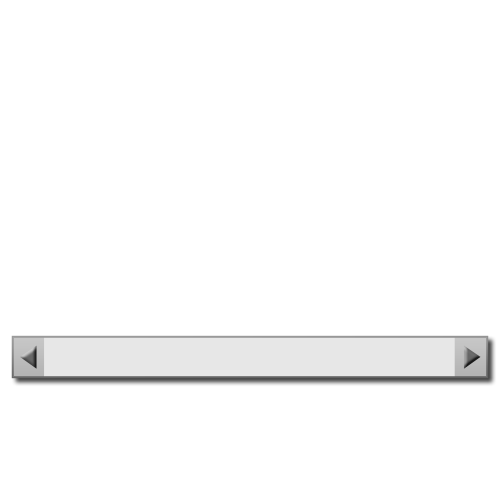
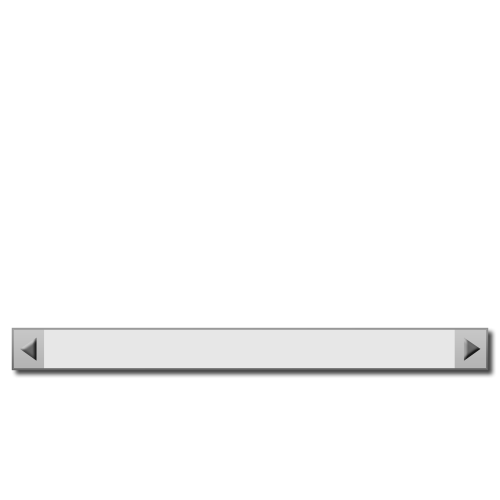
image updates, many minor adjustements

Changed region(s): [[0.0, 0.63, 0.99, 0.78]]

diff --git a/GazeParser.cs b/GazeParser.cs
@@ -25,10 +25,10 @@ namespace SmoothPursuit
 
         public static int SAMPLE_INTERVAL { get { return 30; } }
 
-        private const bool ENSURE_SMOOTH_PURSUIT = false;
+        private const bool ENSURE_SMOOTH_PURSUIT = true;
         private const float ALPHA = 1f;
         private const double MIN_FIX_DIST = 70;     // pixels
-        private const int MAX_OFFSET = 0;         // pixels
+        private const int MAX_OFFSET = 400;         // pixels
         
         private readonly int OFFSET_X = 0;          // pixels
         private readonly int OFFSET_Y = 0;          // pixels
@@ -47,6 +47,7 @@ namespace SmoothPursuit
         #region Properties
 
         public IPursueDetector PursueDetector { get; set; }
+        public bool OffsetEnabled { get; set; }
 
         #endregion
 
@@ -55,11 +56,10 @@ namespace SmoothPursuit
         public GazeParser()
         {
             Random rand = new Random();
-            if (MAX_OFFSET > 0)
-            {
-                OFFSET_X = rand.Next(2 * MAX_OFFSET) - MAX_OFFSET;
-                OFFSET_Y = rand.Next(2 * MAX_OFFSET) - MAX_OFFSET;
-            }
+            OFFSET_X = rand.Next(2 * MAX_OFFSET) - MAX_OFFSET;
+            OFFSET_Y = rand.Next(2 * MAX_OFFSET) - MAX_OFFSET;
+
+            OffsetEnabled = true;
 
             iPointsTimer.Interval = SAMPLE_INTERVAL;
             iPointsTimer.Tick += PointsTimer_Tick;
@@ -85,7 +85,9 @@ namespace SmoothPursuit
 
         public void feed(int aTimestamp, Point aPoint)
         {
-            Point gazePoint = new Point(aPoint.X + OFFSET_X, aPoint.Y + OFFSET_Y);
+            Point gazePoint = new Point(
+                aPoint.X + (OffsetEnabled ? OFFSET_X : 0),
+                aPoint.Y + (OffsetEnabled ? OFFSET_Y : 0));
             lock (iPointBuffer)
             {
                 iPointBuffer.Enqueue(new GazePoint(aTimestamp, gazePoint));

diff --git a/Static/DwellDetector.cs b/Static/DwellDetector.cs
@@ -1,8 +1,4 @@
-using System;
-using System.Collections.Generic;
-using System.Linq;
-using System.Text;
-using System.Drawing;
+using System.Drawing;
 
 namespace SmoothPursuit.Static
 {
@@ -66,13 +62,6 @@ namespace SmoothPursuit.Static
                 else
                     State = IPursueDetector.State.Unknown;
             }
-
-            public override string ToString()
-            {
-                return new StringBuilder(base.ToString()).
-                    AppendFormat("\t{0,8:N3}", 11.1).
-                    ToString();
-            }
         }
 
         #endregion
@@ -97,6 +86,8 @@ namespace SmoothPursuit.Static
 
         #endregion
 
+        #region Internal methods
+
         protected override IPursueDetector.DataPoint CreateDataPoint(int aTimestamp, Point aPoint)
         {
             return new GazePoint(aTimestamp, aPoint);
@@ -110,5 +101,7 @@ namespace SmoothPursuit.Static
             iTrack.updateState(iIncreaseArea.Activated, iDecreaseArea.Activated);
             return iTrack;
         }
+
+        #endregion
     }
 }

diff --git a/Properties/AssemblyInfo.cs b/Properties/AssemblyInfo.cs
@@ -5,11 +5,11 @@ using System.Runtime.InteropServices;
 // General Information about an assembly is controlled through the following 
 // set of attributes. Change these attribute values to modify the information
 // associated with an assembly.
-[assembly: AssemblyTitle("SmoothVolume")]
+[assembly: AssemblyTitle("SmoothPursuitControl")]
 [assembly: AssemblyDescription("")]
 [assembly: AssemblyConfiguration("")]
 [assembly: AssemblyCompany("University of Tampere")]
-[assembly: AssemblyProduct("SmoothVolume")]
+[assembly: AssemblyProduct("SmoothPursuitControl")]
 [assembly: AssemblyCopyright("Copyright © University of Tampere 2015")]
 [assembly: AssemblyTrademark("")]
 [assembly: AssemblyCulture("")]

diff --git a/Rotation/Knob.cs b/Rotation/Knob.cs
@@ -7,7 +7,7 @@ namespace SmoothPursuit.Rotation
     {
         #region Consts
 
-        private const int INDICATOR_OFFSET = 150;       // pixels
+        private const int INDICATOR_OFFSET = 200;       // pixels from the center
         private const float MIN_ANGLE = -135;           // degrees
         private const float MAX_ANGLE = 135;            // degrees
         private const double TARGET_SPEED = 1.4;        // degrees per step

diff --git a/Scrolling/Cue.cs b/Scrolling/Cue.cs
@@ -52,7 +52,7 @@ namespace SmoothPursuit.Scrolling
             iLattitude = aX;
             Location = new Point(
                 (int)Math.Round((double)(iLattitude - iBitmapCenter.X)),
-                (int)Math.Round(iInitialPosition.Y - iBitmapCenter.Y - 8)); // 8 - a hack to show the cue higher
+                (int)Math.Round(iInitialPosition.Y - iBitmapCenter.Y));
         }
 
         private void SlideBy(double aDistance)

diff --git a/MainForm.cs b/MainForm.cs
@@ -108,6 +108,7 @@ namespace SmoothPursuit
 
             iGazeControl = iGazeControls[iGazeControlIndex];
             iParser.PursueDetector = iGazeControl.PursueDetector;
+            iParser.OffsetEnabled = iGazeControl != iStaticControl;
             
             pcbControl.Image = iGazeControl.Image;
             pcbControl.Visible = !CONTROL_INVISIBLE_WHEN_NOT_TRACKING;

diff --git a/Rotation/Cue.cs b/Rotation/Cue.cs
@@ -7,7 +7,7 @@ namespace SmoothPursuit.Rotation
     {
         #region Consts
 
-        private const double RADIUS = 0.35;         // fraction of the min(width, height)
+        private const double RADIUS = 0.265;        // fraction of the min(width, height)
         private const double INITIAL_ANGLE = 90;    // degrees
 
         #endregion

diff --git a/Scrolling/Bar.cs b/Scrolling/Bar.cs
@@ -10,7 +10,7 @@ namespace SmoothPursuit.Scrolling
         private const int TARGET_SPEED = 3;     // pixels per step
 
         private const int SLIDER_X = 44;
-        private const int SLIDER_Y = 337;
+        private const int SLIDER_Y = 330;
         private const int SLIDER_WIDTH = 411;
         private const int SLIDER_HEIGHT = 40;
 

diff --git a/IGazeControl.cs b/IGazeControl.cs
@@ -105,7 +105,7 @@ namespace SmoothPursuit
 
         public void reset()
         {
-            Value = (int)(MAX_VALUE / 2);
+            Value = (int)(MAX_VALUE / 2 + 0.5);
         }
 
         #endregion

diff --git a/Static/Control.cs b/Static/Control.cs
@@ -1,8 +1,4 @@
-using System;
-using System.Collections.Generic;
-using System.Linq;
-using System.Text;
-using System.Drawing;
+using System.Drawing;
 
 namespace SmoothPursuit.Static
 {

diff --git a/Static/Cue.cs b/Static/Cue.cs
@@ -1,8 +1,4 @@
-using System;
-using System.Collections.Generic;
-using System.Linq;
-using System.Text;
-using System.Drawing;
+using System.Drawing;
 
 namespace SmoothPursuit.Static
 {
